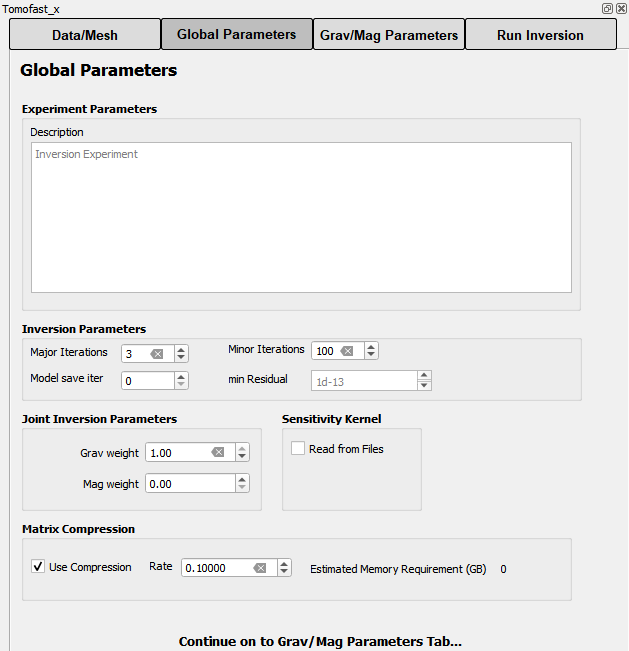
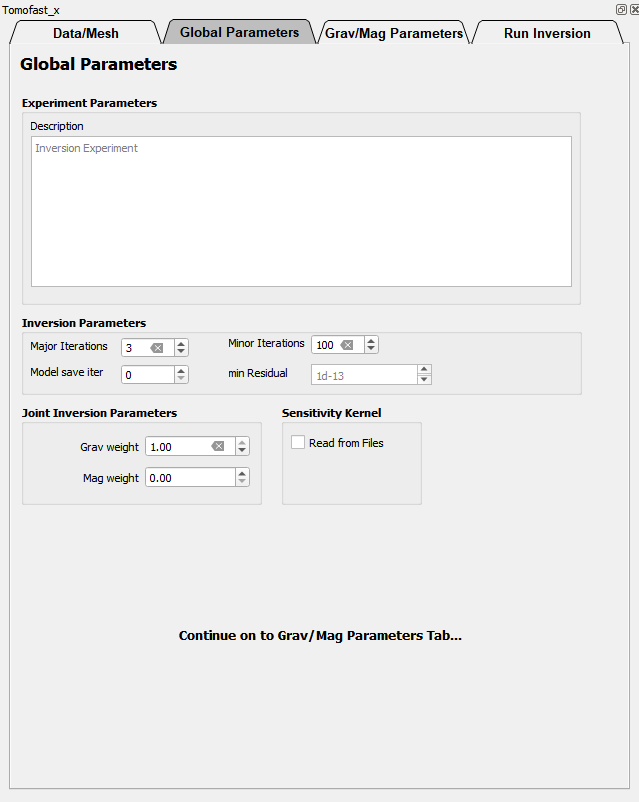
update readme and fix mag/grav memory calc bug

diff --git a/Tomofast_x.py b/Tomofast_x.py
@@ -2183,14 +2183,7 @@ class Tomofast_x:
         elif self.global_experimentType == 2:
             memory = 8 * compression * nx * ny * nz * nData
         else:
-            memory = (
-                8
-                * compression
-                * nx
-                * ny
-                * nz
-                * (self.forward_data_magn_nData + self.forward_data_grav_nData)
-            )
+            memory = 8 * compression * nx * ny * nz * nData * 2
 
         memory = round(memory / (1024 * 1024 * 1024), 3)
         self.dlg.memory_label.setText(str(memory))

diff --git a/README.md b/README.md
@@ -12,12 +12,13 @@ B. Select Grav, mag or both Inversion stype [Step 1]
 C. Select a data layer (csv or tif format), define input and output projections, and Load data [Step 2a or Step 3a]   
 D. If csv data, select fields for lat_x, long_y & data [Step 2b or Step 3b, data loaded to QGIS once Assign fields button selected]   
 E. Select DTM tif file or use constant value [Step 4 reprojected dtm loaded to QGIS]   
-F. Specify mesh parameters (optionally defined from max/min extents of a polygon shapefile) and output directory for mesh and parameter files. Check Model Grid Size to make sure the mesh is not stupidly large. [Step 5 mesh and data files written out and loaded to QGIS]  
+F. Specify mesh parameters (optionally defined from max/min extents of a polygon shapefile) and output directory for mesh and parameter files. Check Model Grid Size to make sure the mesh is not stupidly large. 
+G. Define compression amount. Check the Estimated Memory Requirements to make sure you run the inversion on a computer with enough memory.    
+[Step 5 mesh and data files written out and loaded to QGIS]  
     
 **Select Global Parameters tab**   
-![tomofast dialog tab 2](plugin2.png)    
-G. Define compression file directory and project description and other Inversion parameters. Check the Estimated Memory Requirements to make sure you run the inversion on a computer with enough memory.   
-H. Specify Survey parameters   
+![tomofast dialog tab 2](plugin2.png)     
+H. Specify Global Inversion parameters   
    
 **Select Grav/Mag Parameters tab**   
 ![tomofast dialog tab 3](plugin3.png)    
@@ -26,7 +27,7 @@ J. Modify parameters and then save out Parameter File by clicking on Save Parame
    
 **Run tomofast-x from command line using the just-generated files**   
 ![tomofast dialog tab 4](plugin4.png)    
-If you have tomofast-x installed on your machine, you can run it directly from this tab, after defining the path to the tomofastx executable and the paramfile, and the number of processors to use.    
+K. If you have tomofast-x installed on your machine, you can run it directly from this tab, after defining the path to the tomofastx executable and the paramfile, and the number of processors to use.    
    
 Under Windows this can only be run via WSL, so you will need to specify which Linux Distribution is installed and use the predefined Command as provided..
    
